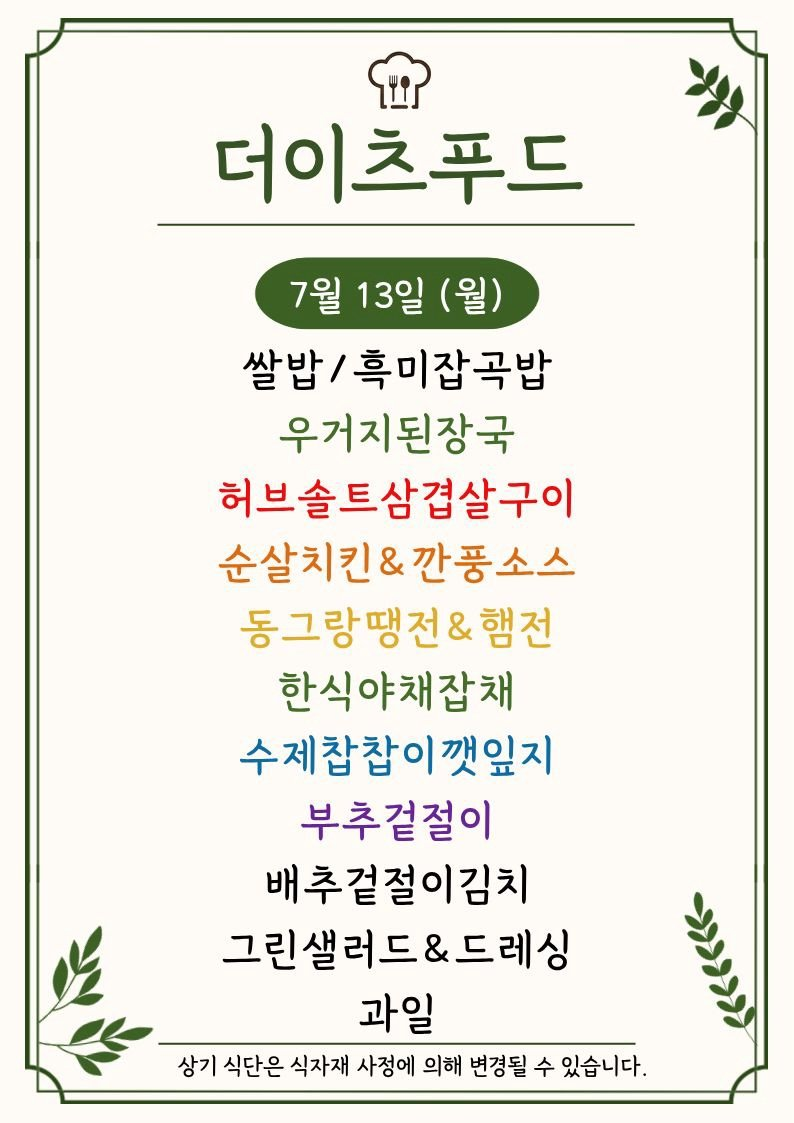
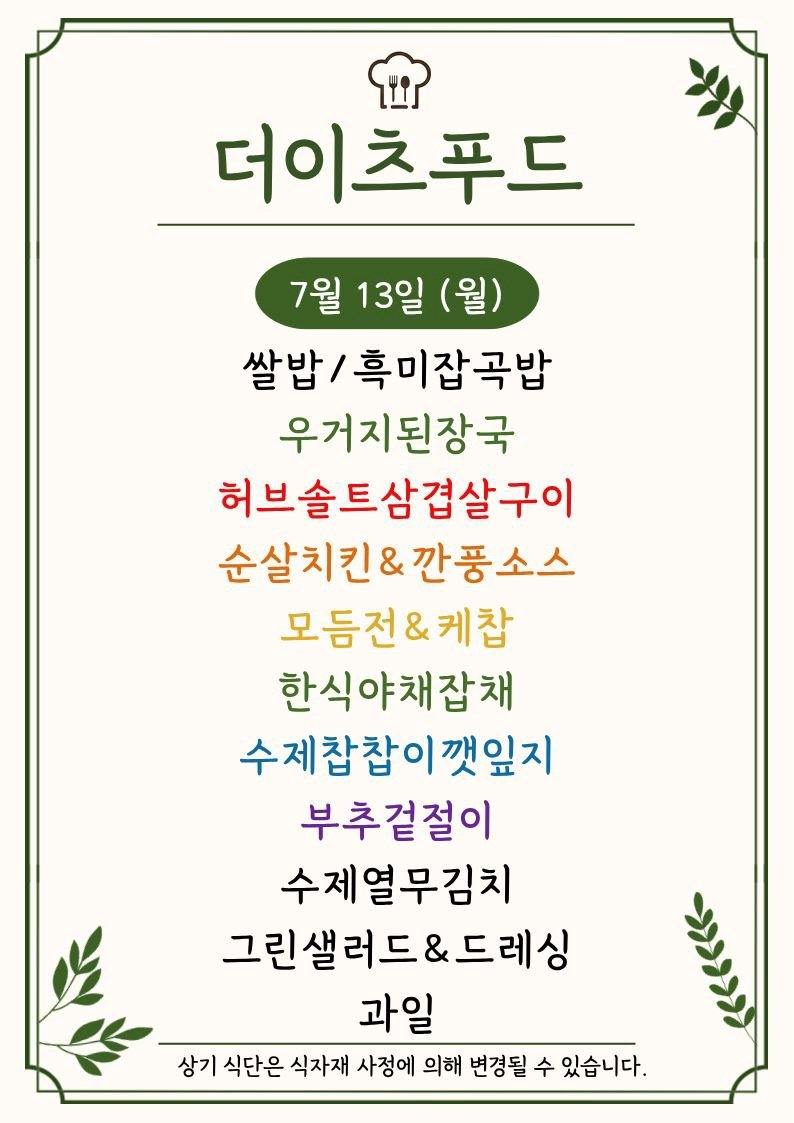
Update menu board assets

Changed region(s): [[0.3023, 0.5298, 0.6952, 0.5922], [0.3325, 0.748, 0.665, 0.8103]]

diff --git a/menu-today/index.html b/menu-today/index.html
@@ -209,7 +209,7 @@
 
     <section class="meta-bar">
       <div class="meta-card"><div class="meta-label">기준 날짜</div><div class="meta-value">2026년 7월 13일 월요일</div></div>
-      <div class="meta-card"><div class="meta-label">최종 가져온 시간</div><div class="meta-value">2026-07-13 11:03:40</div></div>
+      <div class="meta-card"><div class="meta-label">최종 가져온 시간</div><div class="meta-value">2026-07-13 11:13:28</div></div>
       <div class="meta-card"><div class="meta-label">확인 완료</div><div class="meta-value">9개 식당</div></div>
       <div class="meta-card"><div class="meta-label">준비중</div><div class="meta-value">3개 채널</div></div>
     </section>
@@ -295,7 +295,7 @@
             <div class="sub">에이스테크노타워10차</div>
           </div>
         </div>
-        <div class="menu-inline-image"><img src="./images/thefoodsketch.png" alt="더푸드스케치 식단 이미지"></div><ul><li>소고기 미역국</li><li>숫불돼지길비구이</li><li>후라이드치킨 / 치폴레S</li><li>수제만두계란전</li><li>크래미플면무침</li><li>sy 비엔나소세지볶음</li><li>Z 상추 / 양배추 / 쌈장</li><li>Lu 오이지무침</li><li>가든샐러드 / 드레싱</li><li>배추겉절이 / 음료</li></ul>
+        <div class="menu-inline-image"><img src="./images/thefoodsketch.png" alt="더푸드스케치 식단 이미지"></div><ul><li>소고기 미역국</li><li>숫불돼지길비구이</li><li>후라이드치킨 / 치폴레S</li><li>수제만두계란전</li><li>크래미플면무침</li><li>sy 비엔나소세지볶음</li><li>Z 상추 / 양배추 / 쌈장</li><li>Lu 오이지무침</li><li>가든샐러드 &amp; 드레싱</li><li>배추겉절이 / 음료</li></ul>
       </article>
 
       <article class="restaurant-card">

diff --git a/guro-menu/index.html b/guro-menu/index.html
@@ -32,7 +32,7 @@
   </header>
   <section class="meta">
     <div><small>기준 날짜</small><strong>2026년 7월 13일 월요일</strong></div>
-    <div><small>최종 갱신</small><strong>2026-07-13 11:03:51</strong></div>
+    <div><small>최종 갱신</small><strong>2026-07-13 11:13:39</strong></div>
     <div><small>등록 식당</small><strong>5개</strong></div>
   </section>
   <div class="notice">공개 카카오 채널의 메뉴 이미지를 자동 수집하고 OCR로 정리합니다. 텍스트에 오타가 있을 수 있으니 식단 이미지를 함께 확인해 주세요.</div>
@@ -76,7 +76,7 @@
         </div>
         <img class="menu-image" src="./images/the-eats-food.png" alt="더이츠푸드 식단 이미지" loading="lazy">
         <p class="message">최신 공개 식단 이미지의 텍스트입니다. 날짜는 원본 이미지를 확인해 주세요.</p>
-        <ul><li>2 0. 됩</li><li>쌀밥/흑미잡곡밥</li><li>우거지된장국</li><li>허브솔트삼겹살구이</li><li>순살치킨&amp;깐풍소스</li><li>한식야채잡채</li><li>부추겉절이</li><li>배추겉절이김치</li><li>그린샐러드&amp;드레싱 봅</li><li>과일</li></ul>
+        <ul><li>2, 2압072</li><li>쌀밥/흑미잡곡밥</li><li>우거지된장국</li><li>허브솔트삼겹살구이</li><li>순살치킨&amp;깐풍소스</li><li>한식야채잡채</li><li>부추겉절이</li><li>수제열무김치 !</li><li>그린샐러드&amp;드레싱 &amp;%</li><li>과일 &lt;</li></ul>
       </article>
 
       <article class="restaurant-card">
